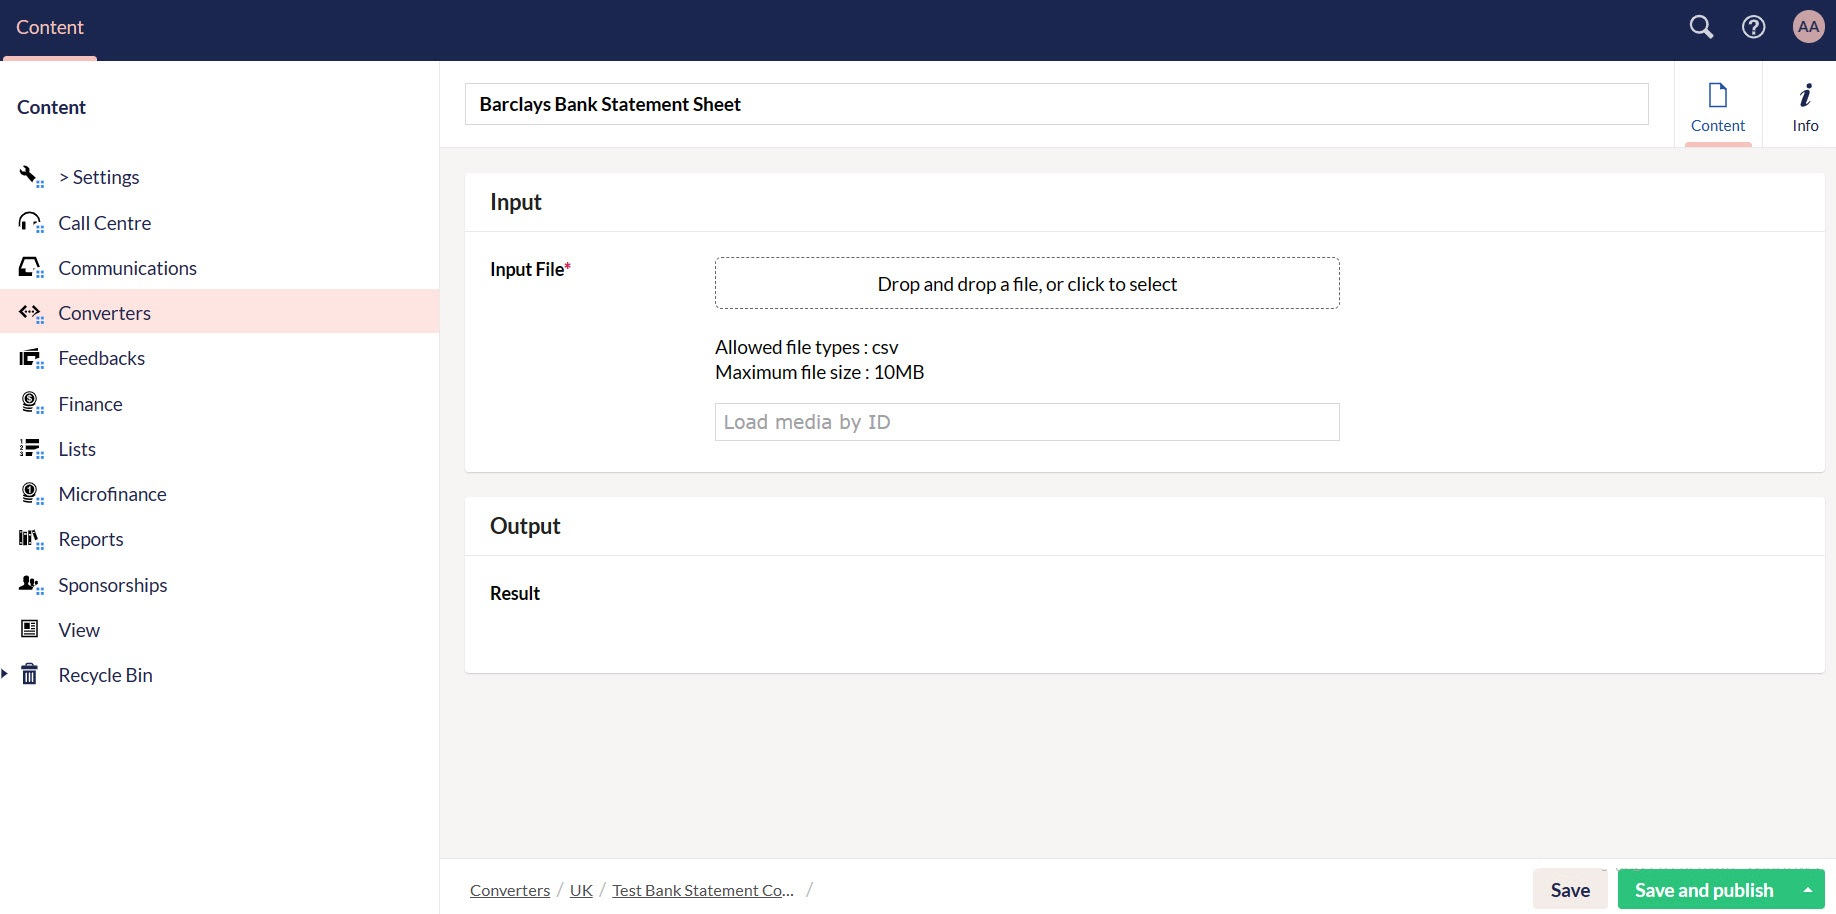
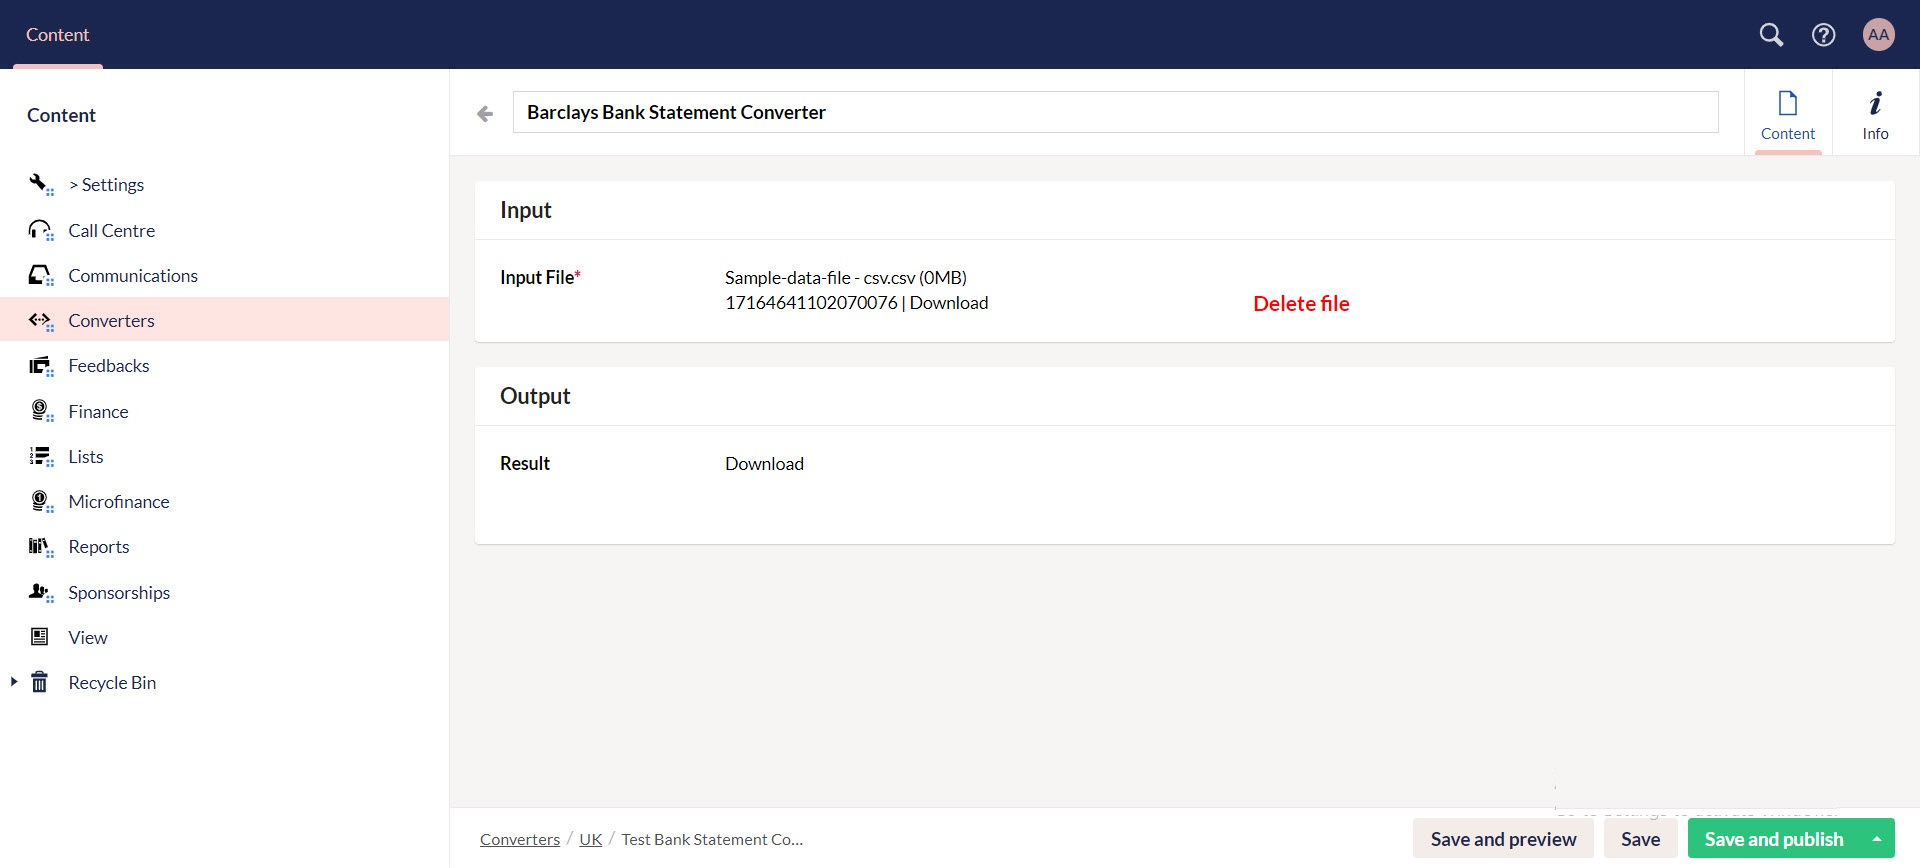
/docs/engage/data/imports/converters/ (some additions)

diff --git a/docs/01-engage/07-data/03-imports/05-converters/index.md b/docs/01-engage/07-data/03-imports/05-converters/index.md
@@ -21,20 +21,26 @@ If you want to set up a converter, please contact `support@n3o.ltd`.
 
 ![Step 4: Converter bank statement](./step-4.png)
 
-5. In the **Input** section upload the sheet via the **Drag and drop** option. Click **Save and publish**, and the converter converts the sheet into perfectly clear data along with additional fields like *donation item*, *location*, *theme*, *stipulation*, etc. 
+5. In the **Input** section upload the sheet with `.csv` extension via the **Drag and drop** option. Click **Save and publish**, and the converter converts the sheet into perfectly clear data along with additional fields like *account reference*, *allocation type*, *fund dimensions*, *donation item*, etc. 
 
-:::note
-These additional fields have been added by the N3O developers prior to the conversion, so that the client can manually fill it up themselves and then import in into Engage.
+:::tip
+- A sample bank statement to be uploaded may look like this.
+
+![Sample bank statement](./sample-date-file.png)
+
+- These additional fields have been added by the N3O developers prior to the conversion, so that the client can manually fill it up themselves and then import in into Engage.
 :::
 
 ![Step 5: Input section](./step-5.jpg)
 
-6. The converted file appears under the **Output** section and can be downloaded as well.
+6. The converted file appears under the **Output** section and can be downloaded as well. A sample downloaded output `.csv` file shows up like this.
+
+![Downloaded file](./downloaded-sample-file.png)
 
 7. As the last step, login into Engage, and navigate towards the **Imports** section under **Data**.
 
 ![Step 7: Login to Engage](./step-7.jpg)
 
-8. Select any queue and import the file into Engage via the **Import Now** option.
+8. Select any queue and import the downloaded file into Engage via the **Import Now** option.
 
-![Step 8: Import Now](./step-8.jpg)
+![Step 8: Import Now](./step-8.png)
